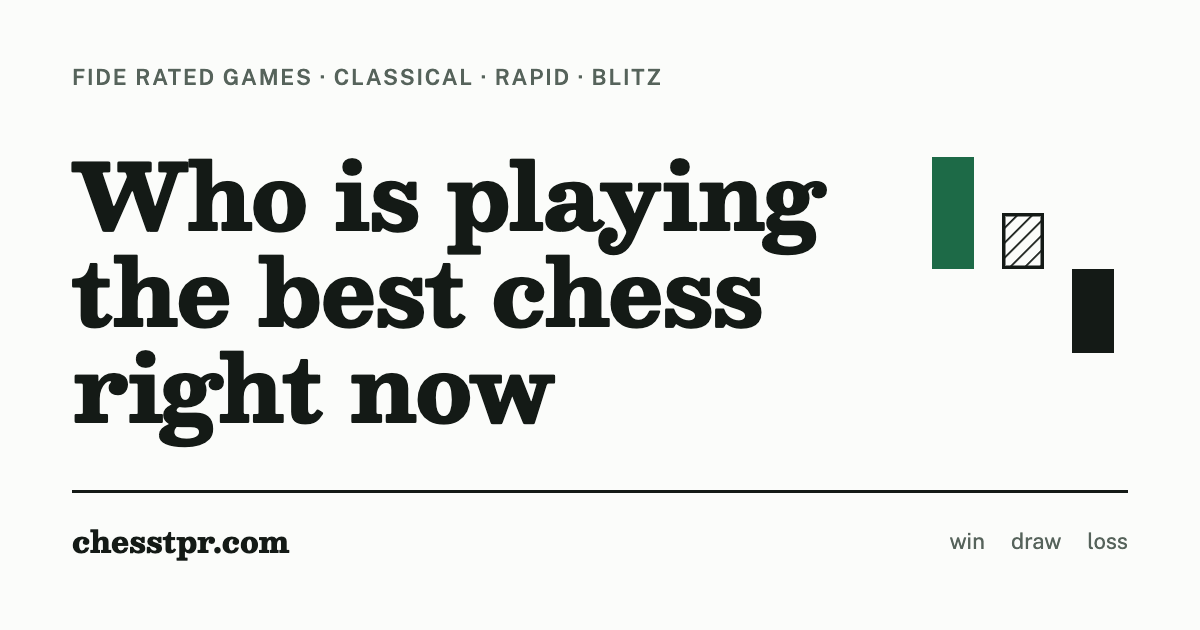
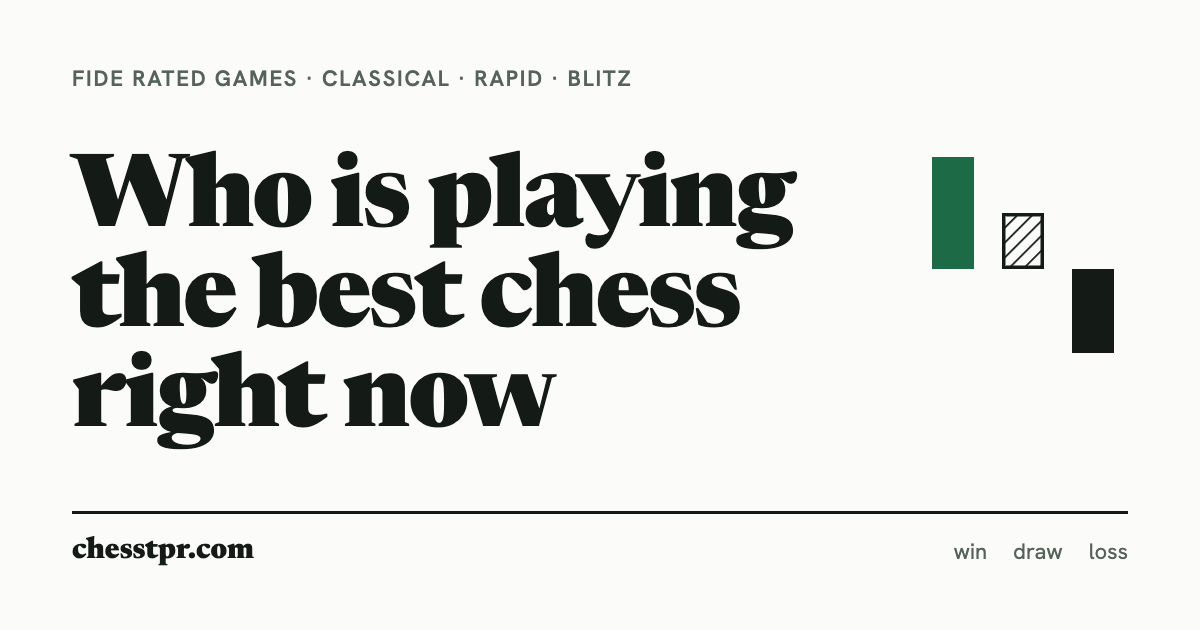
Set the site in Newsreader and Hanken Grotesk
Newsreader (weight 800, with its optical sizes) takes over headlines,
section titles and the big numerals from Besley; Hanken Grotesk takes
over the text from Public Sans. Both have digits of one width, so the
rule that worked around Besley's tabular zero is gone. The share image
is regenerated in the new pair.

diff --git a/site/index.html b/site/index.html
@@ -17,7 +17,7 @@
 <meta name="claude:viewport-fit-sides" content="cover">
 <link rel="preconnect" href="https://fonts.googleapis.com">
 <link rel="preconnect" href="https://fonts.gstatic.com" crossorigin>
-<link rel="stylesheet" href="https://fonts.googleapis.com/css2?family=Besley:wght@800&family=Public+Sans:wght@400;600;700&display=swap">
+<link rel="stylesheet" href="https://fonts.googleapis.com/css2?family=Newsreader:opsz,wght@6..72,800&family=Hanken+Grotesk:wght@400;600;700&display=swap">
 <style>
 /* Layout: one paper ground with rules instead of boxes. Three fills carry the data, the way a
    printed chess diagram does: solid = performance, hatch = a draw or provisional, outline =
@@ -32,8 +32,8 @@
   --accent: #1d6a47;
   --accent-soft: #edf3ee;
   --focus: #2b7fd4;
-  --display: "Besley", "Clarendon", "Rockwell", Georgia, serif;
-  --body: "Public Sans", "Franklin Gothic Medium", "Segoe UI", system-ui, -apple-system, sans-serif;
+  --display: "Newsreader", "Iowan Old Style", Georgia, "Times New Roman", serif;
+  --body: "Hanken Grotesk", "Helvetica Neue", "Segoe UI", system-ui, -apple-system, sans-serif;
   --hatch: repeating-linear-gradient(45deg, var(--ink) 0 1px, transparent 1px 4px);
   --r: 2px;
 }
@@ -68,9 +68,6 @@ body {
 .formats, .race, .list, .method { margin-top: 28px; }
 /* Running text uses the same width as the charts and the table. */
 .num { font-variant-numeric: tabular-nums; }
-/* Besley's tabular zero is drawn at the wrong weight, and its default figures are
-   close to one width already, so the display numerals keep the default set. */
-td.tpr, .fmt-lead b, .fmt-lead-sm b, .pstats dd.num { font-variant-numeric: normal; }
 a { color: var(--ink); text-decoration-color: var(--muted); text-underline-offset: 2px; }
 a:hover { color: var(--accent); text-decoration-color: currentColor; }
 :focus-visible { outline: 2px solid var(--focus); outline-offset: 2px; }
@@ -403,7 +400,7 @@ body.pview .lists-only, body:not(.pview) .pview-only { display: none !important;
 .race[hidden] { display: none; }
 .race-head { display: flex; flex-wrap: wrap; align-items: center; justify-content: space-between; gap: 8px 16px; }
 .race h2 { margin: 0; font-family: var(--display); font-weight: 800; font-size: 20px; line-height: 1.2; }
-.race-month { font-family: var(--display); font-weight: 800; font-size: 24px; line-height: 1; font-variant-numeric: normal; }
+.race-month { font-family: var(--display); font-weight: 800; font-size: 24px; line-height: 1; }
 .race-sub { font-size: 13px; color: var(--muted); margin-top: 2px; }
 .race-key { display: flex; flex-wrap: wrap; gap: 2px 14px; margin-top: 8px; font-size: 13px; color: var(--muted); }
 .race-key span { display: inline-flex; align-items: center; gap: 6px; }

diff --git a/perfrating/page.html b/perfrating/page.html
@@ -17,7 +17,7 @@
 <meta name="claude:viewport-fit-sides" content="cover">
 <link rel="preconnect" href="https://fonts.googleapis.com">
 <link rel="preconnect" href="https://fonts.gstatic.com" crossorigin>
-<link rel="stylesheet" href="https://fonts.googleapis.com/css2?family=Besley:wght@800&family=Public+Sans:wght@400;600;700&display=swap">
+<link rel="stylesheet" href="https://fonts.googleapis.com/css2?family=Newsreader:opsz,wght@6..72,800&family=Hanken+Grotesk:wght@400;600;700&display=swap">
 <style>
 /* Layout: one paper ground with rules instead of boxes. Three fills carry the data, the way a
    printed chess diagram does: solid = performance, hatch = a draw or provisional, outline =
@@ -32,8 +32,8 @@
   --accent: #1d6a47;
   --accent-soft: #edf3ee;
   --focus: #2b7fd4;
-  --display: "Besley", "Clarendon", "Rockwell", Georgia, serif;
-  --body: "Public Sans", "Franklin Gothic Medium", "Segoe UI", system-ui, -apple-system, sans-serif;
+  --display: "Newsreader", "Iowan Old Style", Georgia, "Times New Roman", serif;
+  --body: "Hanken Grotesk", "Helvetica Neue", "Segoe UI", system-ui, -apple-system, sans-serif;
   --hatch: repeating-linear-gradient(45deg, var(--ink) 0 1px, transparent 1px 4px);
   --r: 2px;
 }
@@ -68,9 +68,6 @@ body {
 .formats, .race, .list, .method { margin-top: 28px; }
 /* Running text uses the same width as the charts and the table. */
 .num { font-variant-numeric: tabular-nums; }
-/* Besley's tabular zero is drawn at the wrong weight, and its default figures are
-   close to one width already, so the display numerals keep the default set. */
-td.tpr, .fmt-lead b, .fmt-lead-sm b, .pstats dd.num { font-variant-numeric: normal; }
 a { color: var(--ink); text-decoration-color: var(--muted); text-underline-offset: 2px; }
 a:hover { color: var(--accent); text-decoration-color: currentColor; }
 :focus-visible { outline: 2px solid var(--focus); outline-offset: 2px; }

diff --git a/perfrating/race.css b/perfrating/race.css
@@ -5,7 +5,7 @@
 .race[hidden] { display: none; }
 .race-head { display: flex; flex-wrap: wrap; align-items: center; justify-content: space-between; gap: 8px 16px; }
 .race h2 { margin: 0; font-family: var(--display); font-weight: 800; font-size: 20px; line-height: 1.2; }
-.race-month { font-family: var(--display); font-weight: 800; font-size: 24px; line-height: 1; font-variant-numeric: normal; }
+.race-month { font-family: var(--display); font-weight: 800; font-size: 24px; line-height: 1; }
 .race-sub { font-size: 13px; color: var(--muted); margin-top: 2px; }
 .race-key { display: flex; flex-wrap: wrap; gap: 2px 14px; margin-top: 8px; font-size: 13px; color: var(--muted); }
 .race-key span { display: inline-flex; align-items: center; gap: 6px; }
